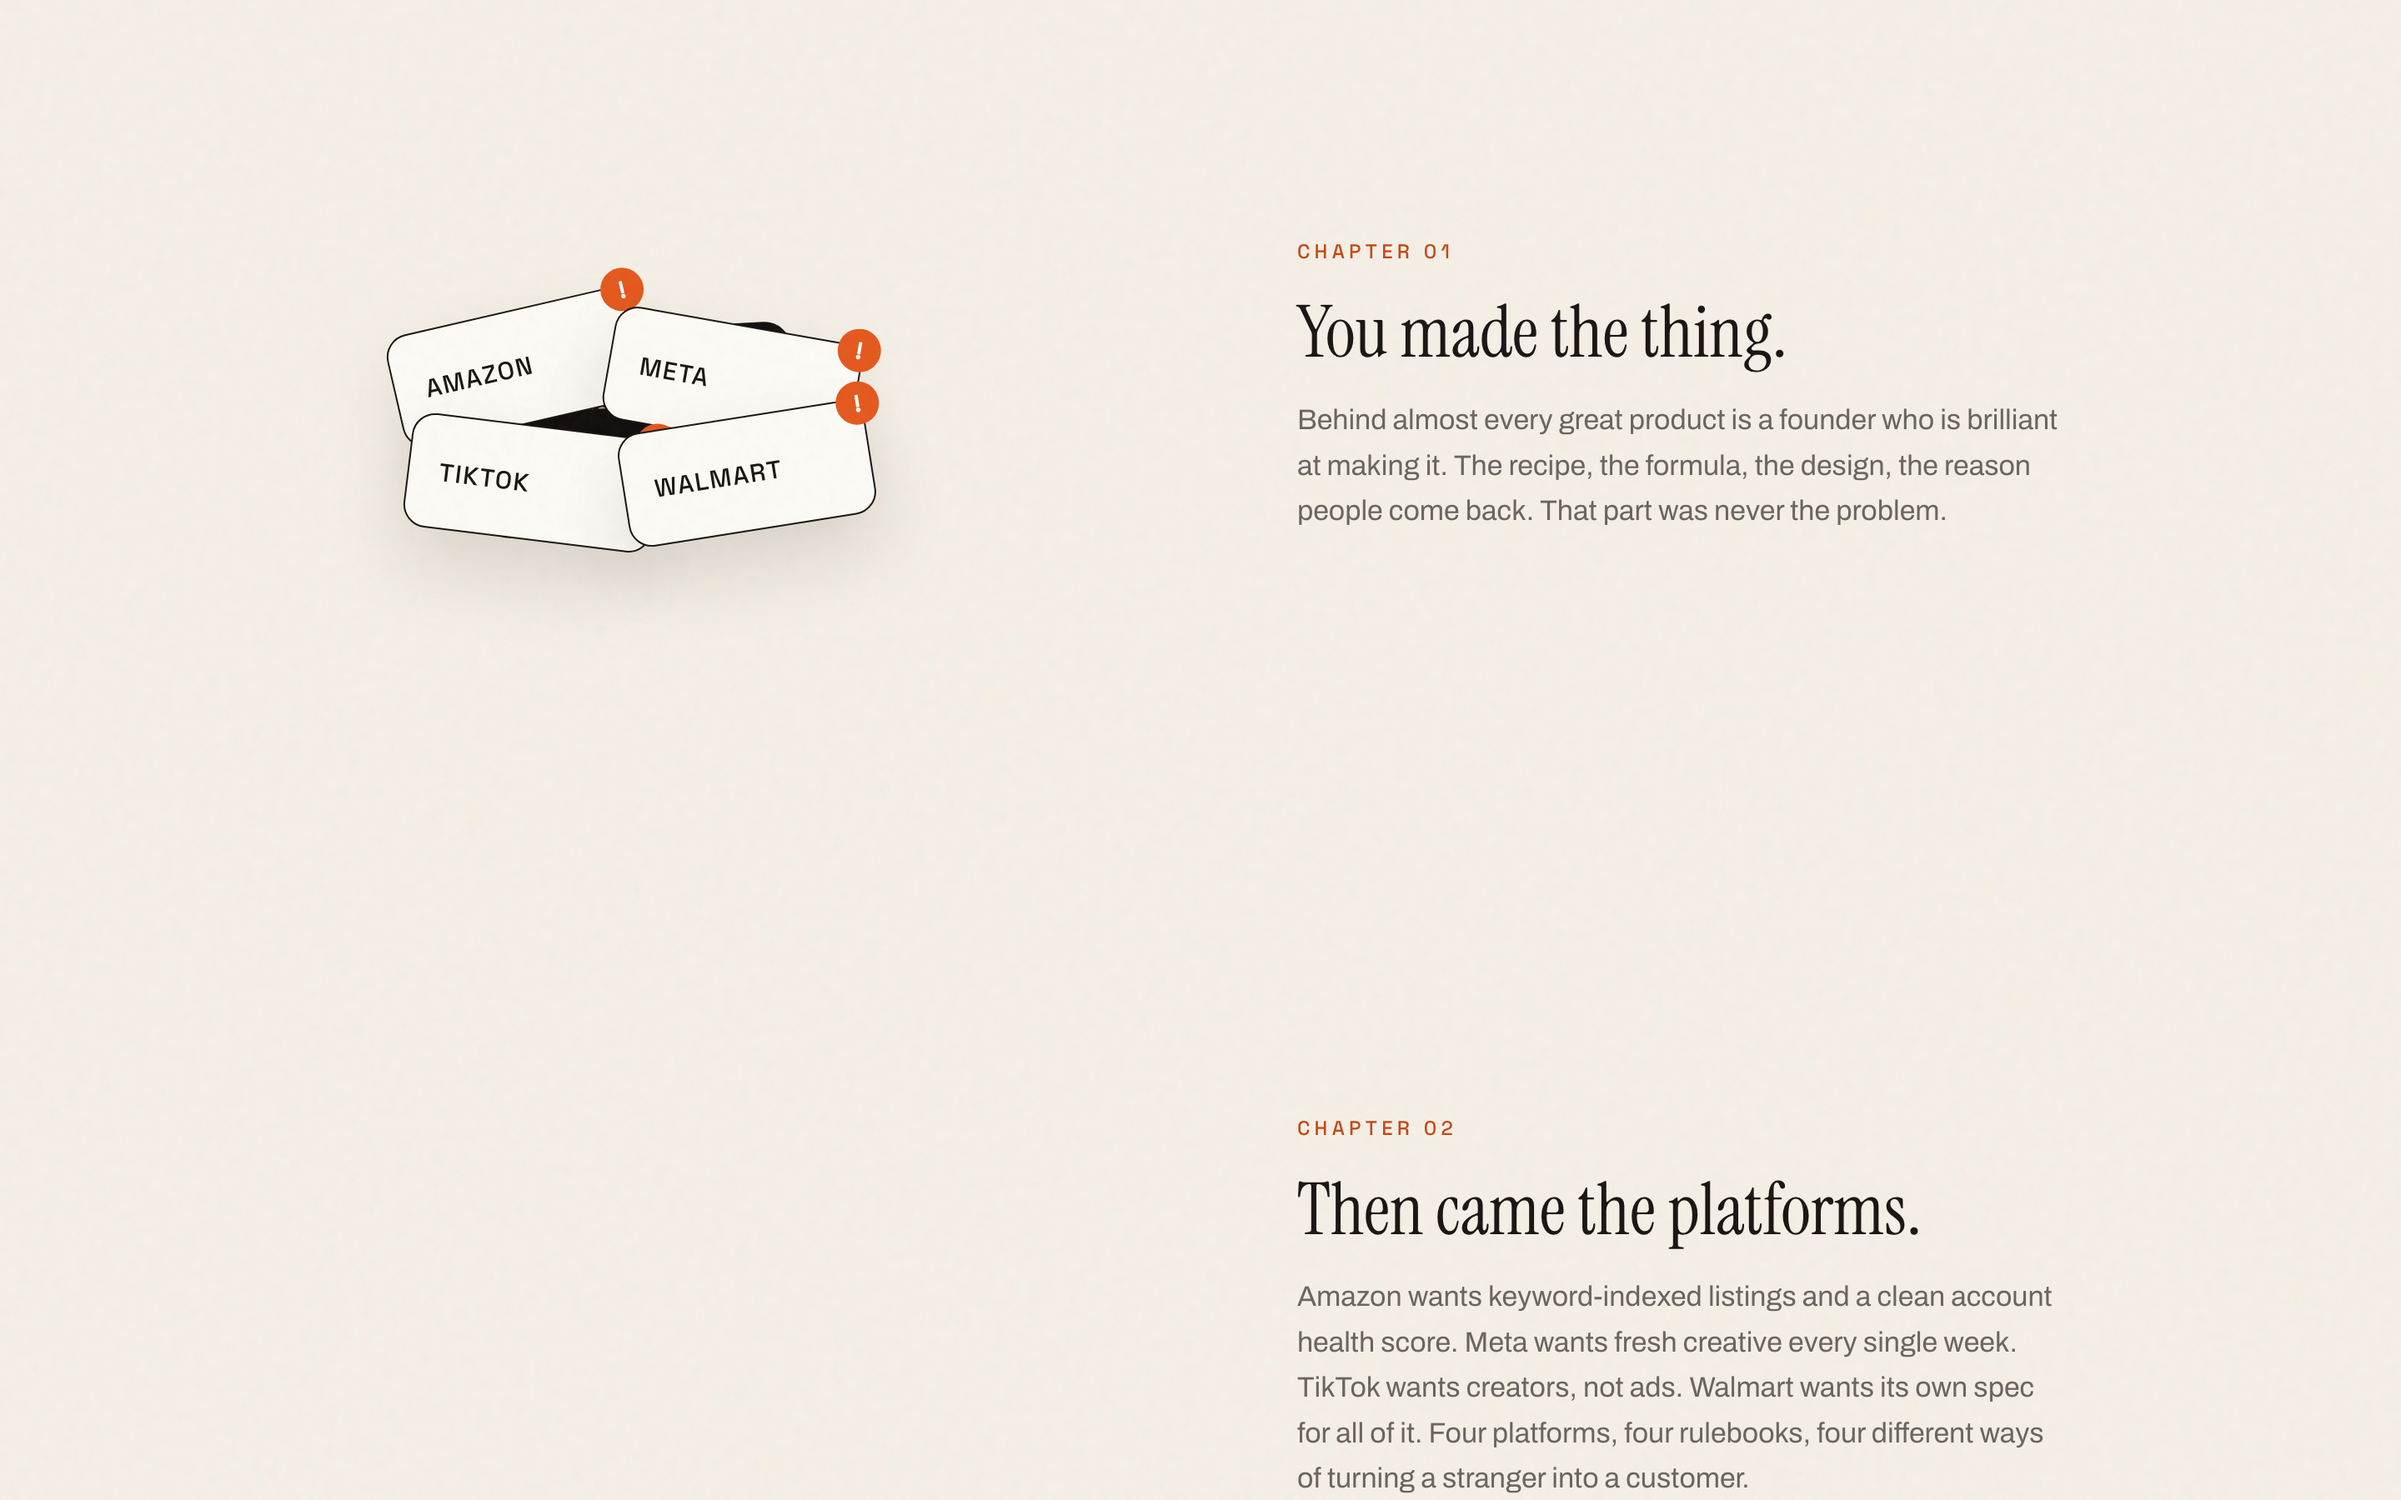
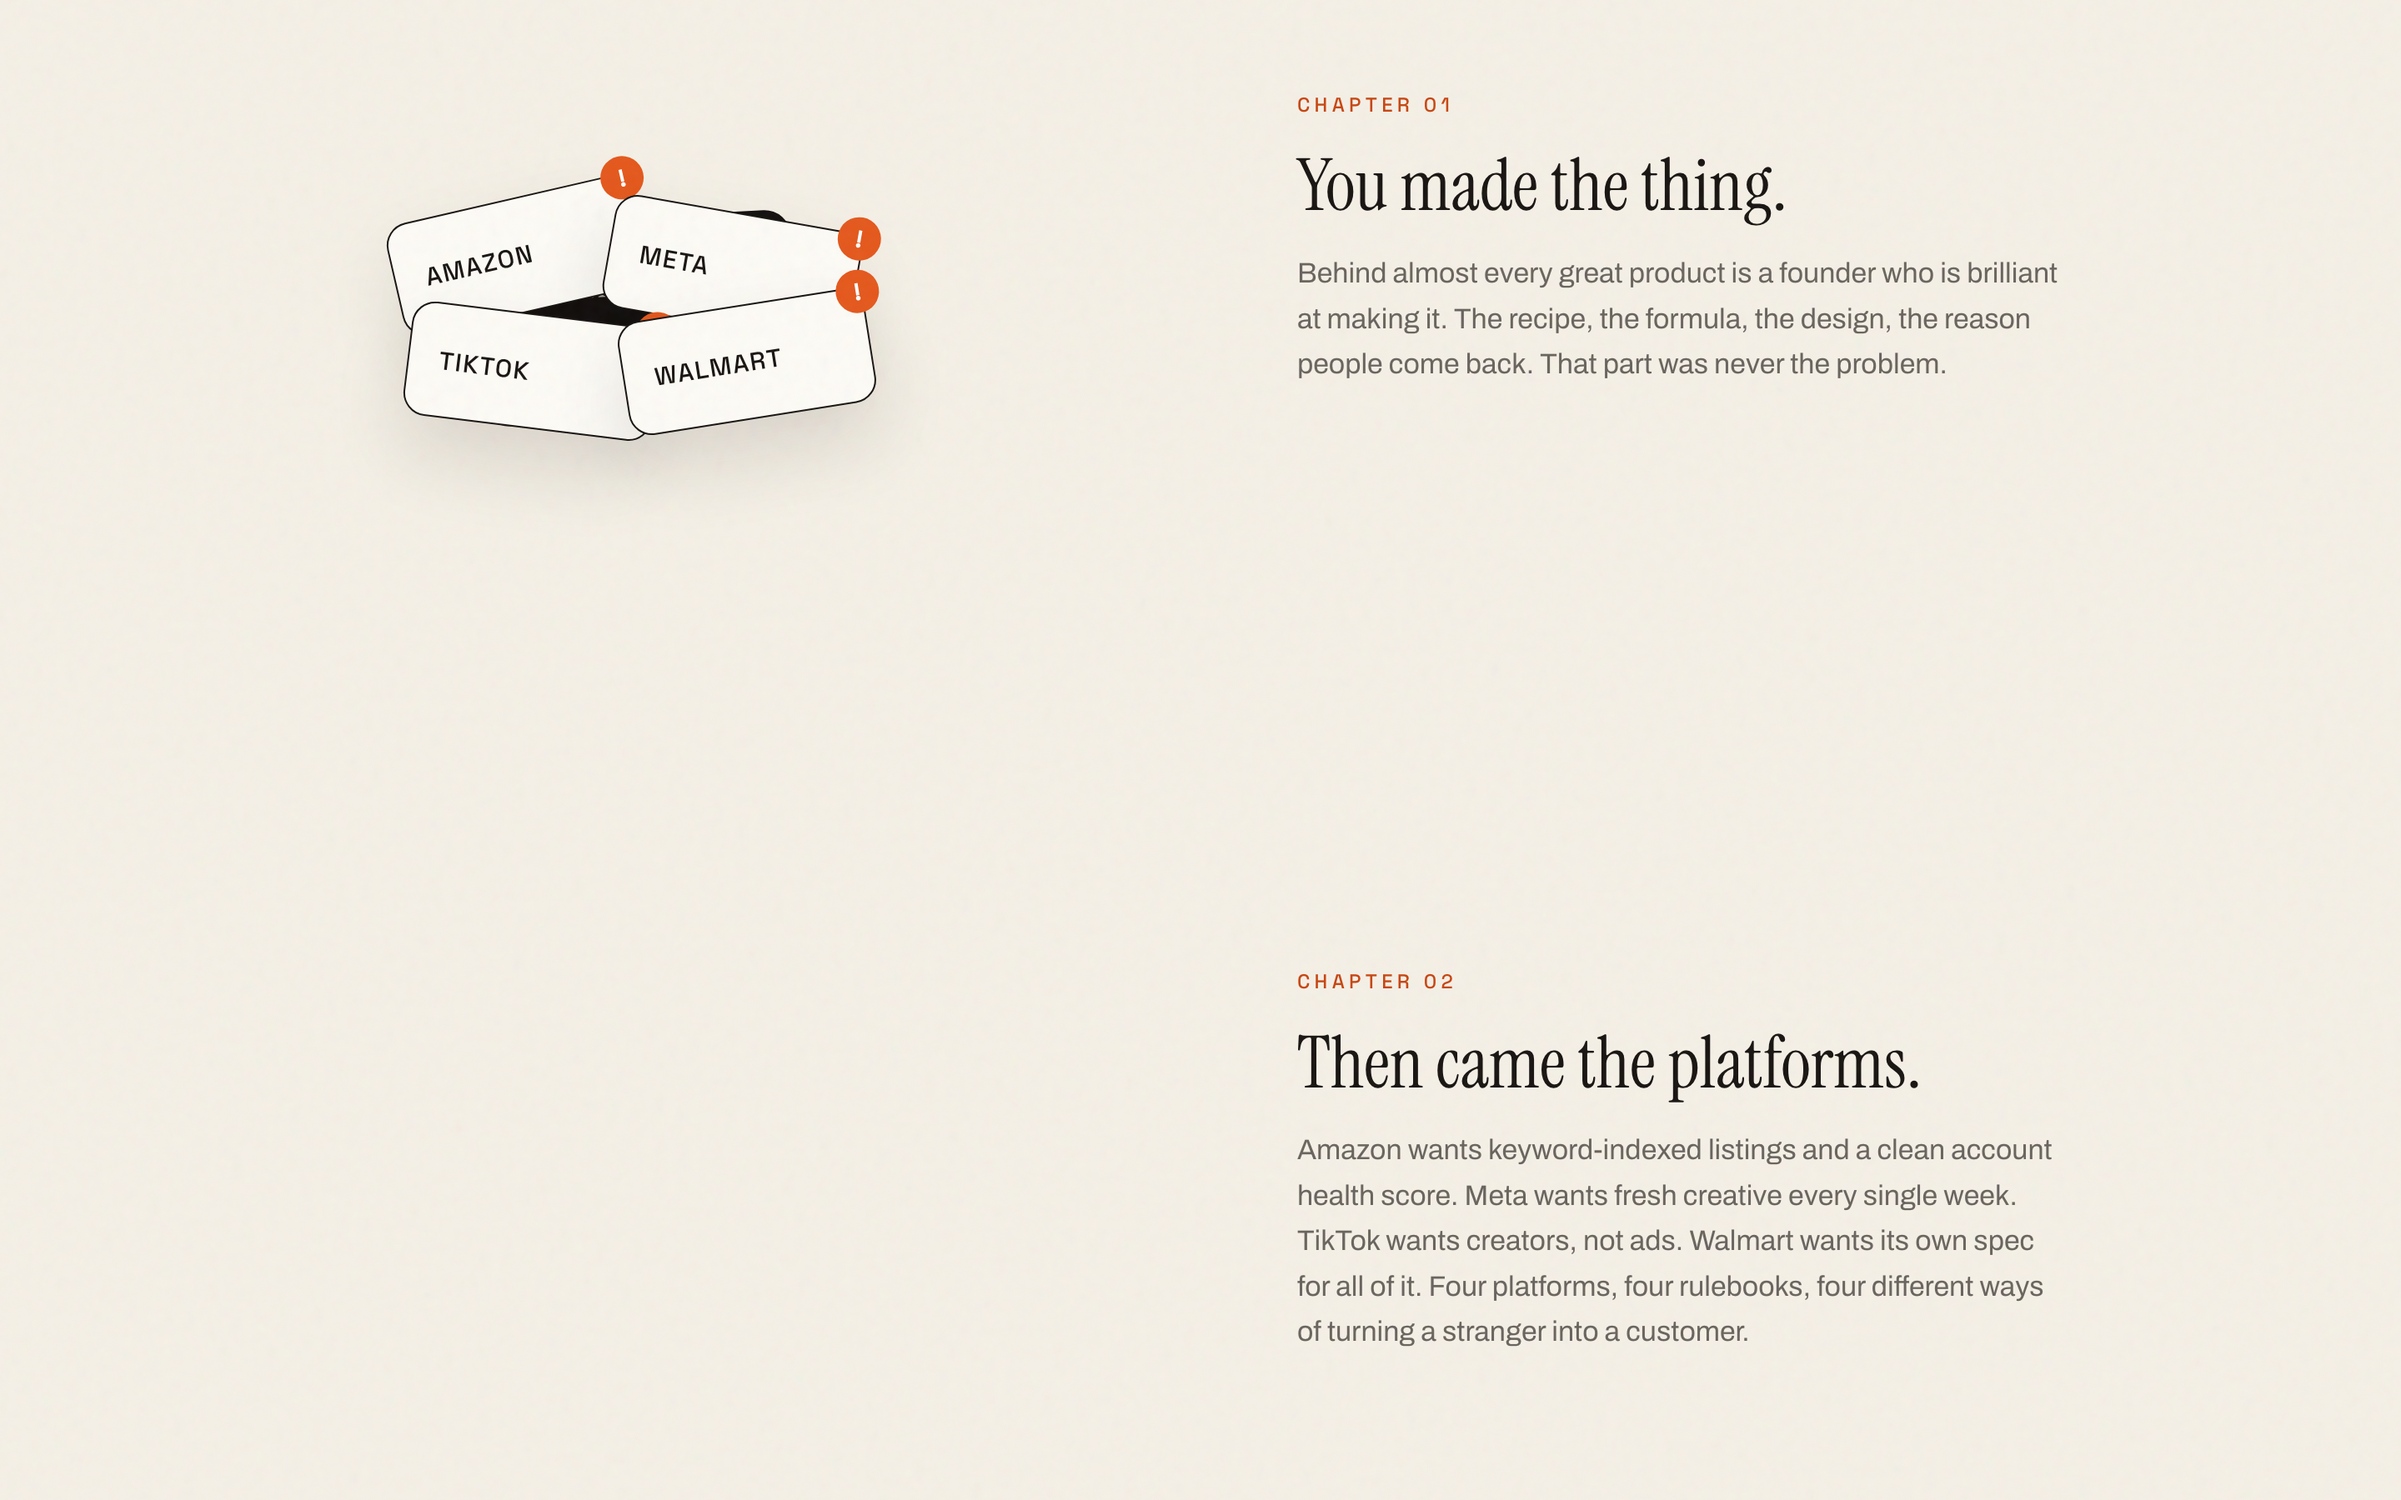
Keep the story stage level with every chapter, including the last
The stage was top-aligned while pinned, so each chapter's text sat below
it, worst on chapter four. It is centred again, and the sticky range now
runs long enough that chapter four is still pinned when it is read: all
four chapters now sit level with the stage and stay fully on screen.

The short-screen stage rule was also being overridden because it preceded
the base rule at equal specificity, so it never applied.

diff --git a/css/style.css b/css/style.css
@@ -604,27 +604,31 @@ button { font: inherit; color: inherit; background: none; border: 0; cursor: poi
   margin-top: clamp(24px, 3vw, 40px);
 }
 
-/* top-aligned rather than centred: centring in a tall sticky box parked the
-   stage far below the first chapter on arrival, leaving a dead screen */
+/* centred in the space under the fixed header so that once it pins, the
+   stage sits level with whichever chapter is active, including the last */
 .story__visual {
   position: sticky;
   top: 74px;
   height: calc(100vh - 74px);
   display: flex;
-  align-items: flex-start;
+  align-items: center;
 }
 
 /* short laptop screens: shrink the stage so it clears the fold on arrival,
    before sticky takes over */
-@media (max-height: 820px) {
-  .stage { width: min(360px, 100%); }
-}
-
 .stage {
   position: relative;
   width: min(460px, 100%);
   aspect-ratio: 1;
   margin: 0 auto;
+}
+
+/* short laptop screens: shrink the stage and tighten the lead-in so the
+   whole thing clears the fold on arrival, before sticky takes over.
+   Must follow .stage to win on equal specificity */
+@media (max-height: 820px) {
+  .stage { width: min(340px, 100%); }
+  .story__body { margin-top: 16px; }
 }
 
 .stage__product {
@@ -753,11 +757,14 @@ button { font: inherit; color: inherit; background: none; border: 0; cursor: poi
 
 /* the leading pad used to park chapter 01 well below the stage, leaving a
    dead screen on arrival; it now lands level with the stage */
+/* the trailing pad keeps the stage pinned until the last chapter has been
+   read; too little and the stage releases while chapter four is still on
+   screen, dropping the text below it */
 .story__steps {
   display: flex;
   flex-direction: column;
   gap: 38vh;
-  padding: 12vh 0 30vh;
+  padding: 30vh 0 46vh;
 }
 
 .step { max-width: 460px; }

diff --git a/squarespace/code-injection-header.html b/squarespace/code-injection-header.html
@@ -611,27 +611,31 @@ button { font: inherit; color: inherit; background: none; border: 0; cursor: poi
   margin-top: clamp(24px, 3vw, 40px);
 }
 
-/* top-aligned rather than centred: centring in a tall sticky box parked the
-   stage far below the first chapter on arrival, leaving a dead screen */
+/* centred in the space under the fixed header so that once it pins, the
+   stage sits level with whichever chapter is active, including the last */
 .story__visual {
   position: sticky;
   top: 74px;
   height: calc(100vh - 74px);
   display: flex;
-  align-items: flex-start;
+  align-items: center;
 }
 
 /* short laptop screens: shrink the stage so it clears the fold on arrival,
    before sticky takes over */
-@media (max-height: 820px) {
-  .stage { width: min(360px, 100%); }
-}
-
 .stage {
   position: relative;
   width: min(460px, 100%);
   aspect-ratio: 1;
   margin: 0 auto;
+}
+
+/* short laptop screens: shrink the stage and tighten the lead-in so the
+   whole thing clears the fold on arrival, before sticky takes over.
+   Must follow .stage to win on equal specificity */
+@media (max-height: 820px) {
+  .stage { width: min(340px, 100%); }
+  .story__body { margin-top: 16px; }
 }
 
 .stage__product {
@@ -760,11 +764,14 @@ button { font: inherit; color: inherit; background: none; border: 0; cursor: poi
 
 /* the leading pad used to park chapter 01 well below the stage, leaving a
    dead screen on arrival; it now lands level with the stage */
+/* the trailing pad keeps the stage pinned until the last chapter has been
+   read; too little and the stage releases while chapter four is still on
+   screen, dropping the text below it */
 .story__steps {
   display: flex;
   flex-direction: column;
   gap: 38vh;
-  padding: 12vh 0 30vh;
+  padding: 30vh 0 46vh;
 }
 
 .step { max-width: 460px; }
